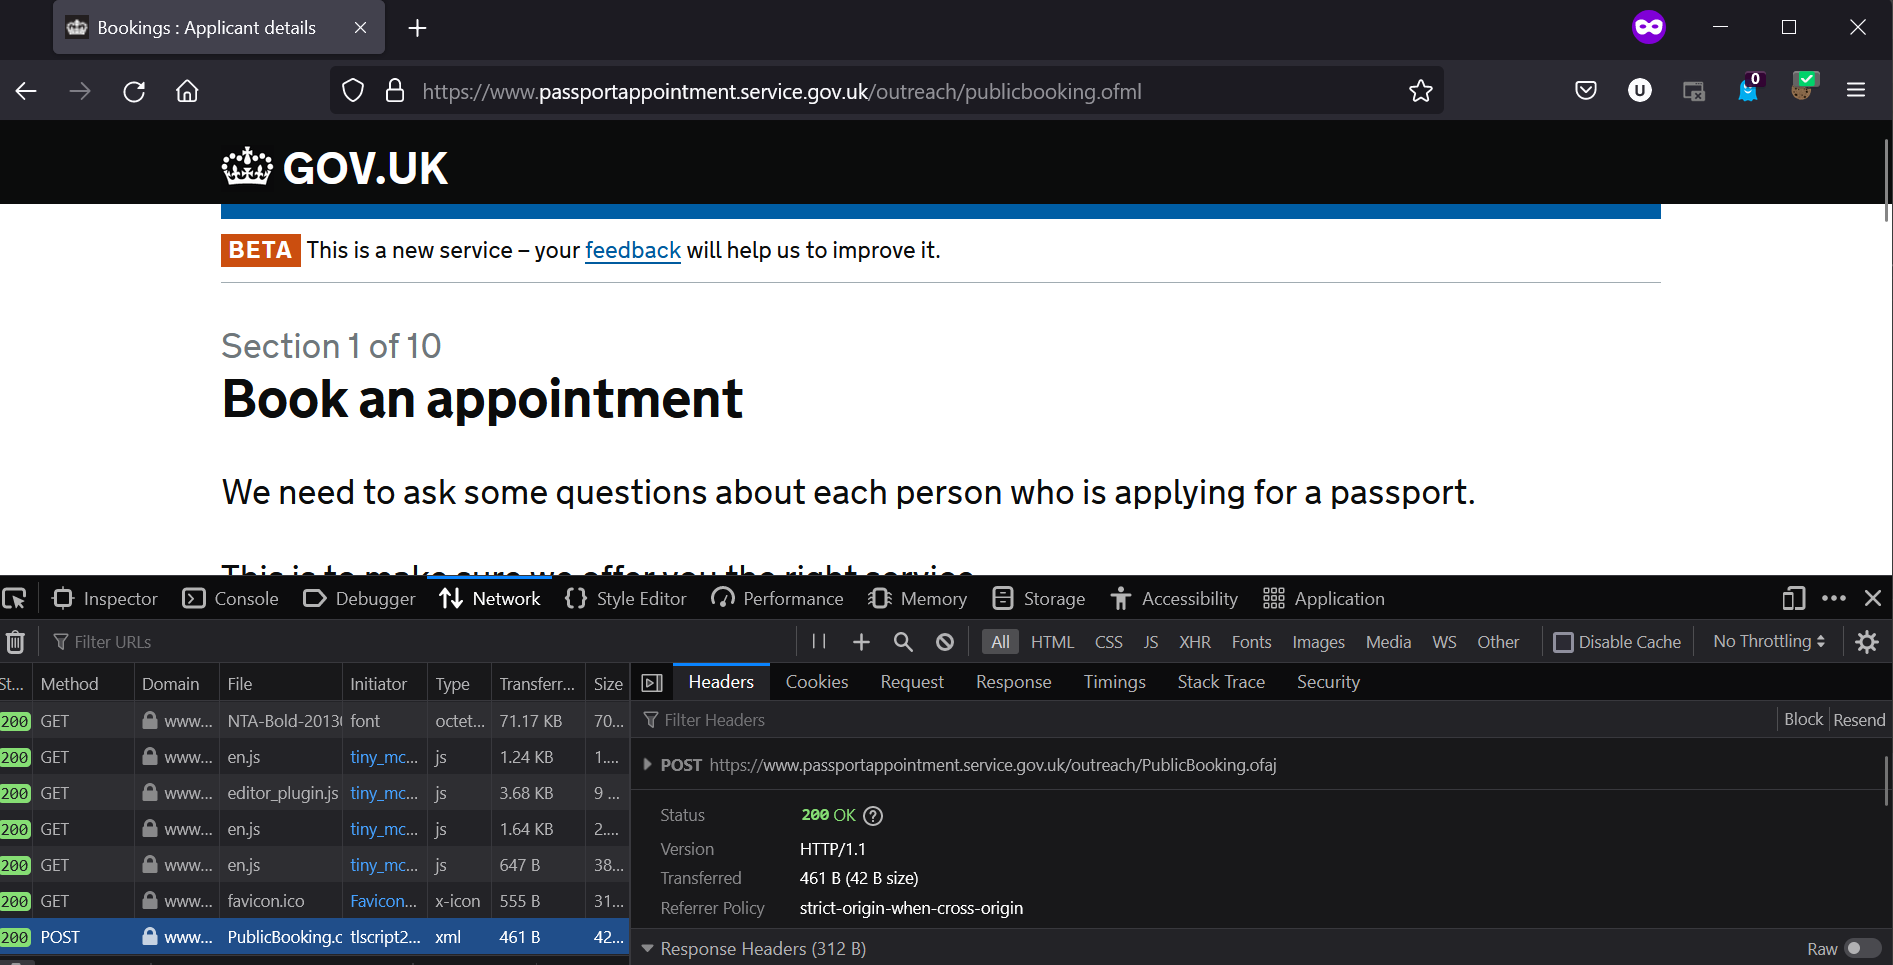
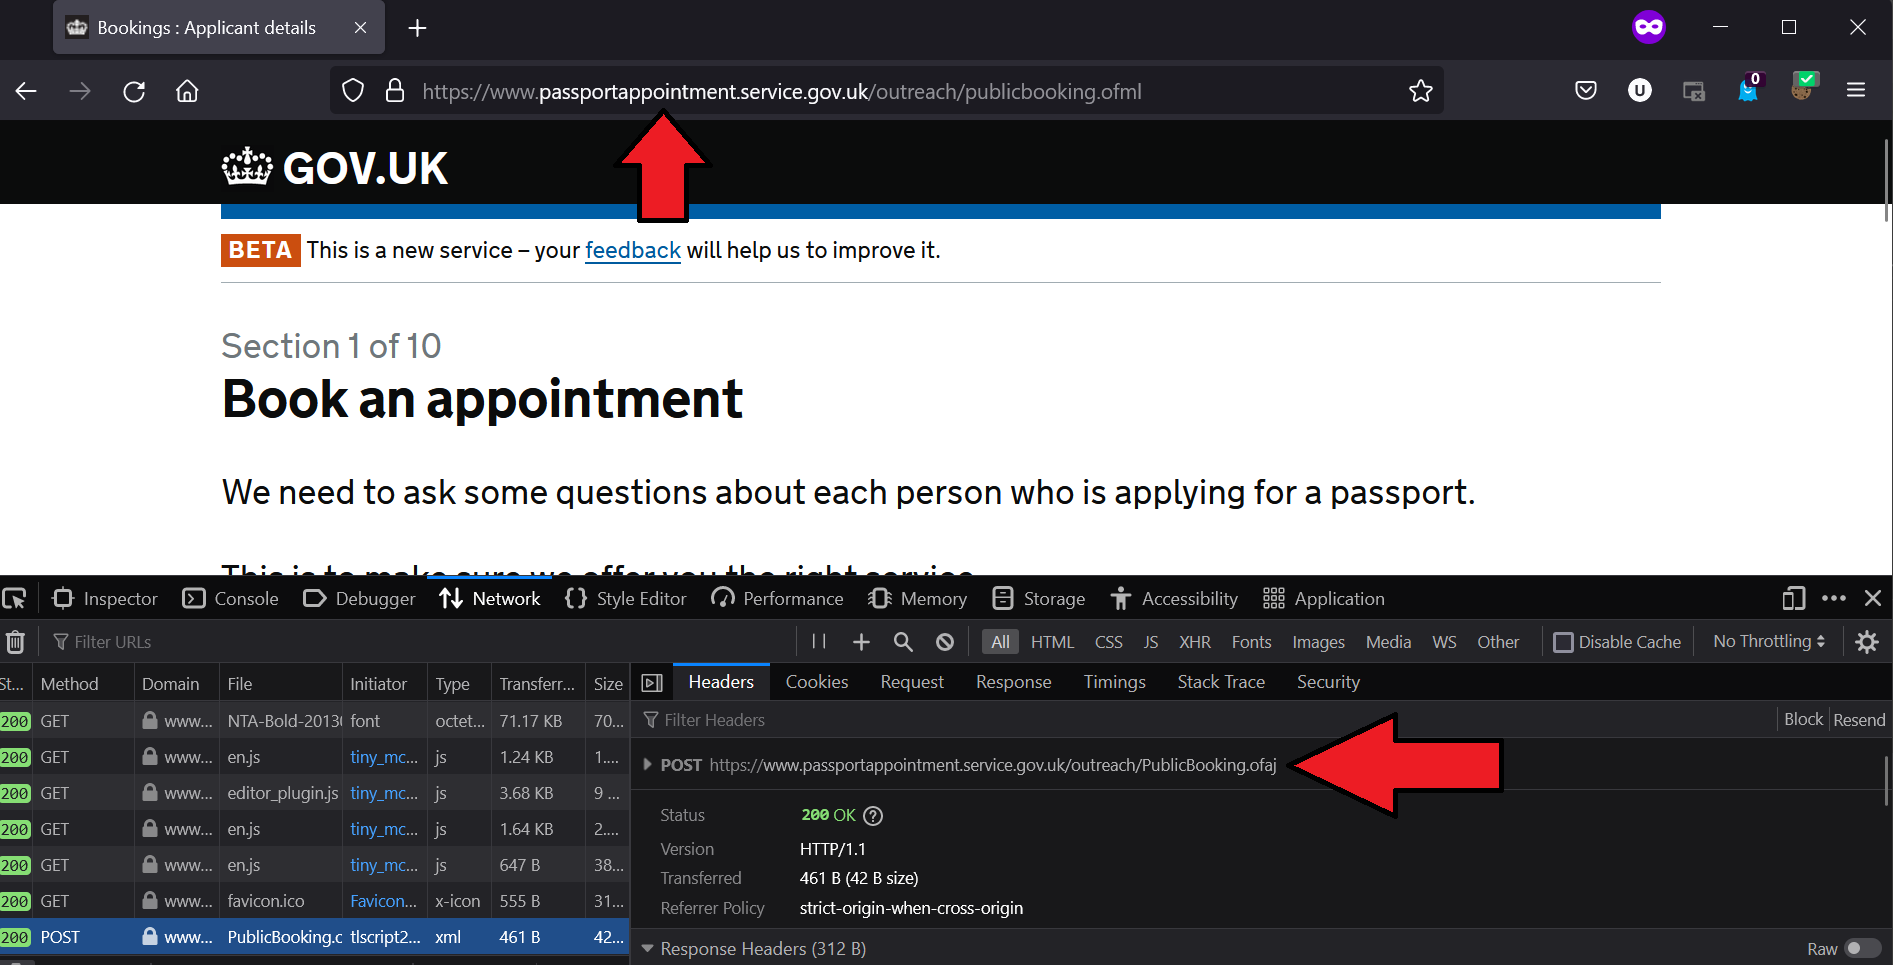
Update blog.

Changed region(s): [[0.6857, 0.7461, 0.8104, 0.8394], [0.3117, 0.1244, 0.374, 0.2487]]

diff --git a/_posts/2022-08-30-AJAX-with-python.md b/_posts/2022-08-30-AJAX-with-python.md
@@ -9,7 +9,6 @@ tags: [JavaScript, python, ajax, requests]
 date: 2022-08-30
 last-updated: 2022-09-01
 ---
-
 In the past, we used libraries such as urllib or requests to read or download data from webpages, but things started falling apart with dynamic websites.
 
 Due to the increasing popularity of modern JavaScript frameworks such as React, Angular, and Vue, more and more websites are now built dynamically with JavaScript. This poses a challenge for web scraping because the HTML markup is not available in the source code. Therefore, we cannot scrape these JavaScript webpages directly and may need to render them as regular HTML markup first. 
@@ -30,7 +29,12 @@ We will use requests to scrape the same table data by replaying AJAX routines, i
 
 The first step is to visit the url and view the network requests in developer mode. The following screenshots were taken from a Firefox browser.
 
+We look for the first request to the server, which in this case is a POST request:
+
 <img src="/assets/img/network1.png" alt="isolated" width="800"/>
+
+The POST request contains the following request payload:
+
 <img src="/assets/img/network2.png" alt="isolated" width="800"/>
 
 Request payload (after formatting):
@@ -46,6 +50,7 @@ Request payload (after formatting):
 The shows the first request is to initialize the AJAX routines using an instance hash and the tag `saving` is set to `TRUE` to indicate that the following AJAX requests should be saved at each step.
 
 We can find the instance hash by looking at the `insthash` tag contained in the source from the initial request to the url.
+
 <img src="/assets/img/source.png" alt="isolated" width="800"/>
 
 Now let's move to the next section of the application by appending dummy data:
